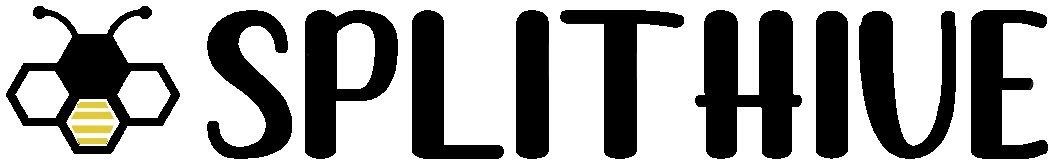
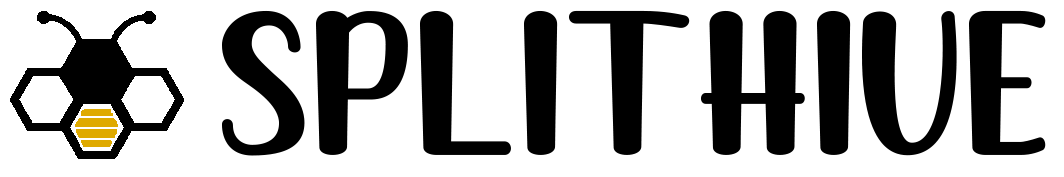
UI

diff --git a/src/components/cerrarsesion.tsx b/src/components/cerrarsesion.tsx
@@ -4,6 +4,8 @@ import session from "../styles/session.module.css"
 import { navigate } from "astro/virtual-modules/transitions-router.js";
 import { getCurrentUser, getUsuarios } from "../utils/utilities";
 
+import {Dropdown, DropdownTrigger, DropdownMenu, DropdownItem, Avatar, User} from "@nextui-org/react";
+
 export default function CerrarSesion(){
     let [usuarios,setUsuarios] = useState(getUsuarios());
     let [currentUser, setCurrentUser] = useState(getCurrentUser());
@@ -13,11 +15,38 @@ export default function CerrarSesion(){
         navigate("/")
     };
     return(
-        <div className={session.cerrar}>
-            <div>Estoy como: {usuarios[currentUser].nombre}</div>
-            <Button className={session.button} onClick={(e => cerrar())}>
-                <div className={session.text}>Cerrar Sesion</div>
-            </Button>
-        </div>
+
+        <div className="flex items-center gap-4" style={{display: "flex", justifyContent: "flex-end", marginTop: "20px", marginBottom: "20px"}}>
+            <Dropdown placement="bottom-end">
+            <DropdownTrigger>
+                <Avatar
+                isBordered
+                as="button"
+                className="transition-transform"
+                src="../../../public/images/usuario.png"
+                />
+            </DropdownTrigger>
+            <DropdownMenu aria-label="Profile Actions" variant="flat">
+                <DropdownItem key="profile" className="h-14 gap-2">
+                <p className="font-semibold">{usuarios[currentUser].nombre}</p>
+                <p className="font-semibold">{usuarios[currentUser].mail}</p>
+                </DropdownItem>
+
+                <DropdownItem key="logout" color="warning" onClick={(e => cerrar())}>
+                Log Out
+                </DropdownItem>
+            </DropdownMenu>
+            </Dropdown>
+      </div>
+
+
+
+
+        // <div className={session.cerrar}>
+        //     <div>Estoy como: {usuarios[currentUser].nombre}</div>
+        //     <Button className={session.button} onClick={(e => cerrar())}>
+        //         <div className={session.text}>Cerrar Sesion</div>
+        //     </Button>
+        // </div>
     )
 }

diff --git a/src/components/recaudacion.jsx b/src/components/recaudacion.jsx
@@ -20,7 +20,7 @@ export default function RecaudacionDisplay(props) {
 
     return (
         <div className="p-5">
-            <Card className='p-4' style={{background: "transparent"}}>
+            <Card className='p-4' style={{background: "black"}}>
                 <CardHeader>
                     <h4 className="font-bold text-large" style={{color: "gold"}}>
                         {grupo.nombre}
@@ -29,7 +29,7 @@ export default function RecaudacionDisplay(props) {
                 <CardBody>
                     <Tabs aria-label="Options" color="warning" radius="full">
                         <Tab key="info" title="Info">
-                            <Card style={{background:"transparent"}}>
+                            <Card style={{background: "black", borderWidth: "2px", borderColor: "gold"}}>
                                 <CardBody>
                                     <Progress size="lg" color="warning" style={{color:"gold"}} label={labelProgreso} value={porcentajeProgreso}/>
                                     {suma >= grupo.objetivo ? (
@@ -48,7 +48,7 @@ export default function RecaudacionDisplay(props) {
                                 <p style={{color:"gold"}}>No se han recibido donaciones aún.</p>
                             ) : (
                                 grupo.donaciones.map((id, index) =>
-                                    <Card key={id} style={{background:"transparent", borderBlockColor: "gold"}}>
+                                    <Card key={id} style={{background: "black", borderWidth: "2px", borderColor: "gold"}}>
                                         <CardBody>
                                             <p style={{color: "gold"}}>Donante: {usuarios[donaciones[id].donante].nombre}</p>
                                             <p style={{color: "gold"}}>Monto: {donaciones[id].monto}</p>

diff --git a/src/styles/login.module.css b/src/styles/login.module.css
@@ -2,7 +2,7 @@
     display: grid;
     justify-content: center;
     align-items: center;
-    padding-top: 20%;
+    padding-top: 35%;
     gap: 10px;
 }
 
@@ -12,8 +12,8 @@
     gap: 10px;
 }
 
-.username_info{
-    color: yellow;
+.username_info, .password_info{
+    color: black;
     font-size: large;
     padding-top: 7px;
     padding-left: 5px;
@@ -23,13 +23,6 @@
     display: flex;
     justify-content: center;
     gap: 10px;
-}
-
-.password_info{
-    color: yellow;
-    font-size: large;
-    padding-top: 7px;
-    padding-left: 5px;
 }
 
 .bar{

diff --git a/src/components/Header.jsx b/src/components/Header.jsx
@@ -2,7 +2,7 @@ import React from 'react';
 
 const Header = () => (
   <div className="header">
-    <img src='/images/splithive.png' alt="Bees" className="img-logo" />
+    <img src='/images/splithive_black.png' alt="Bees"/>
   </div>
 );
 

diff --git a/src/styles/btn.css b/src/styles/btn.css
@@ -1,0 +1,10 @@
+.btn {
+    background-color: #ffffff; 
+    color: rgb(0, 0, 0); 
+    font-size: 20px;
+    padding: 15px 30px; 
+    margin-top: 40px;
+    border-radius: 6px;
+    border-color: #000000;
+    border-width: 3px;
+}

diff --git a/src/styles/global.css b/src/styles/global.css
@@ -27,3 +27,7 @@ h1 {
 label, h2, input {
     color: black;
 }
+
+html {
+    overflow-y: scroll;
+}
